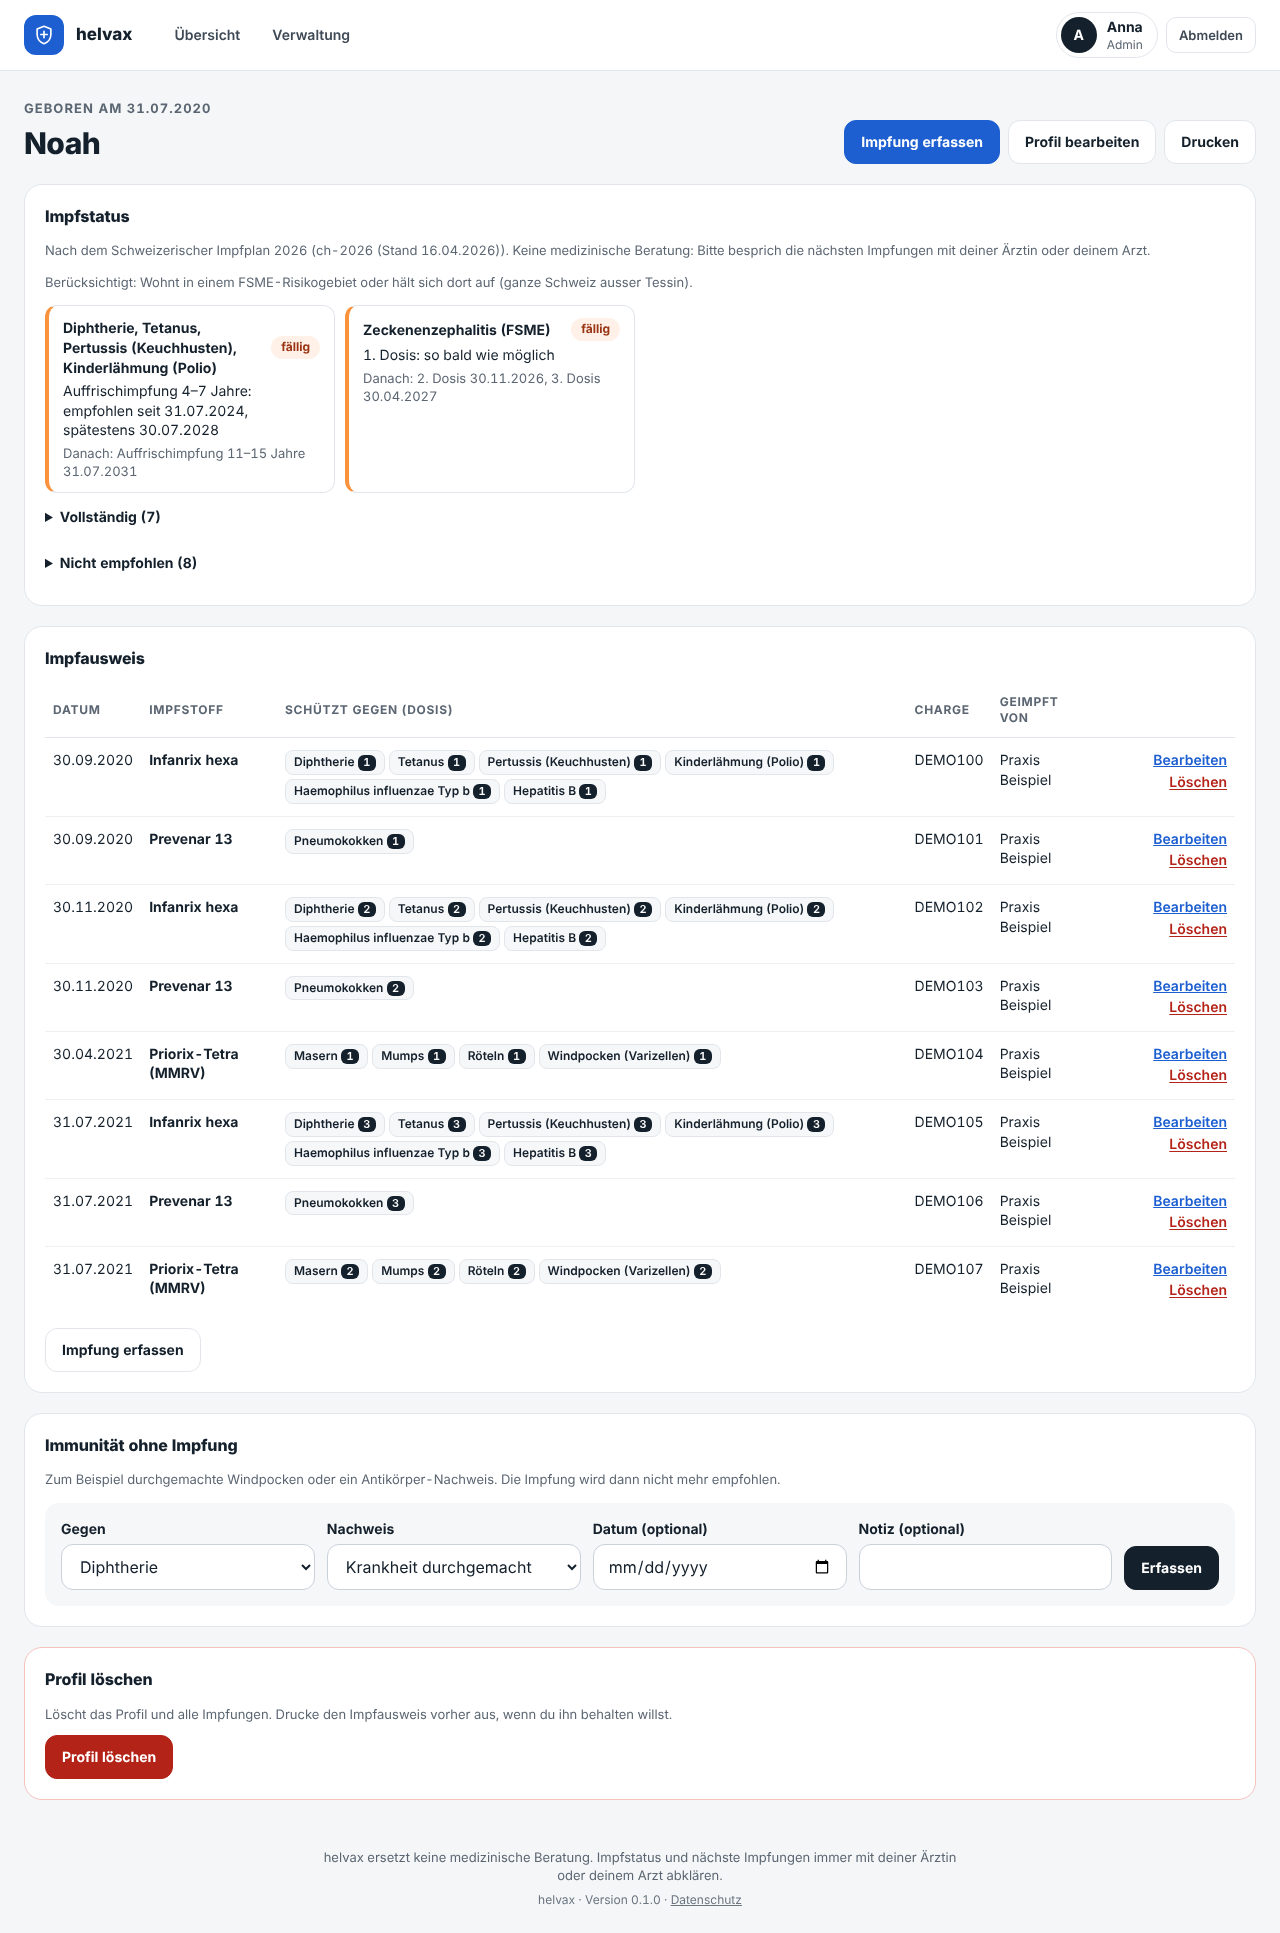
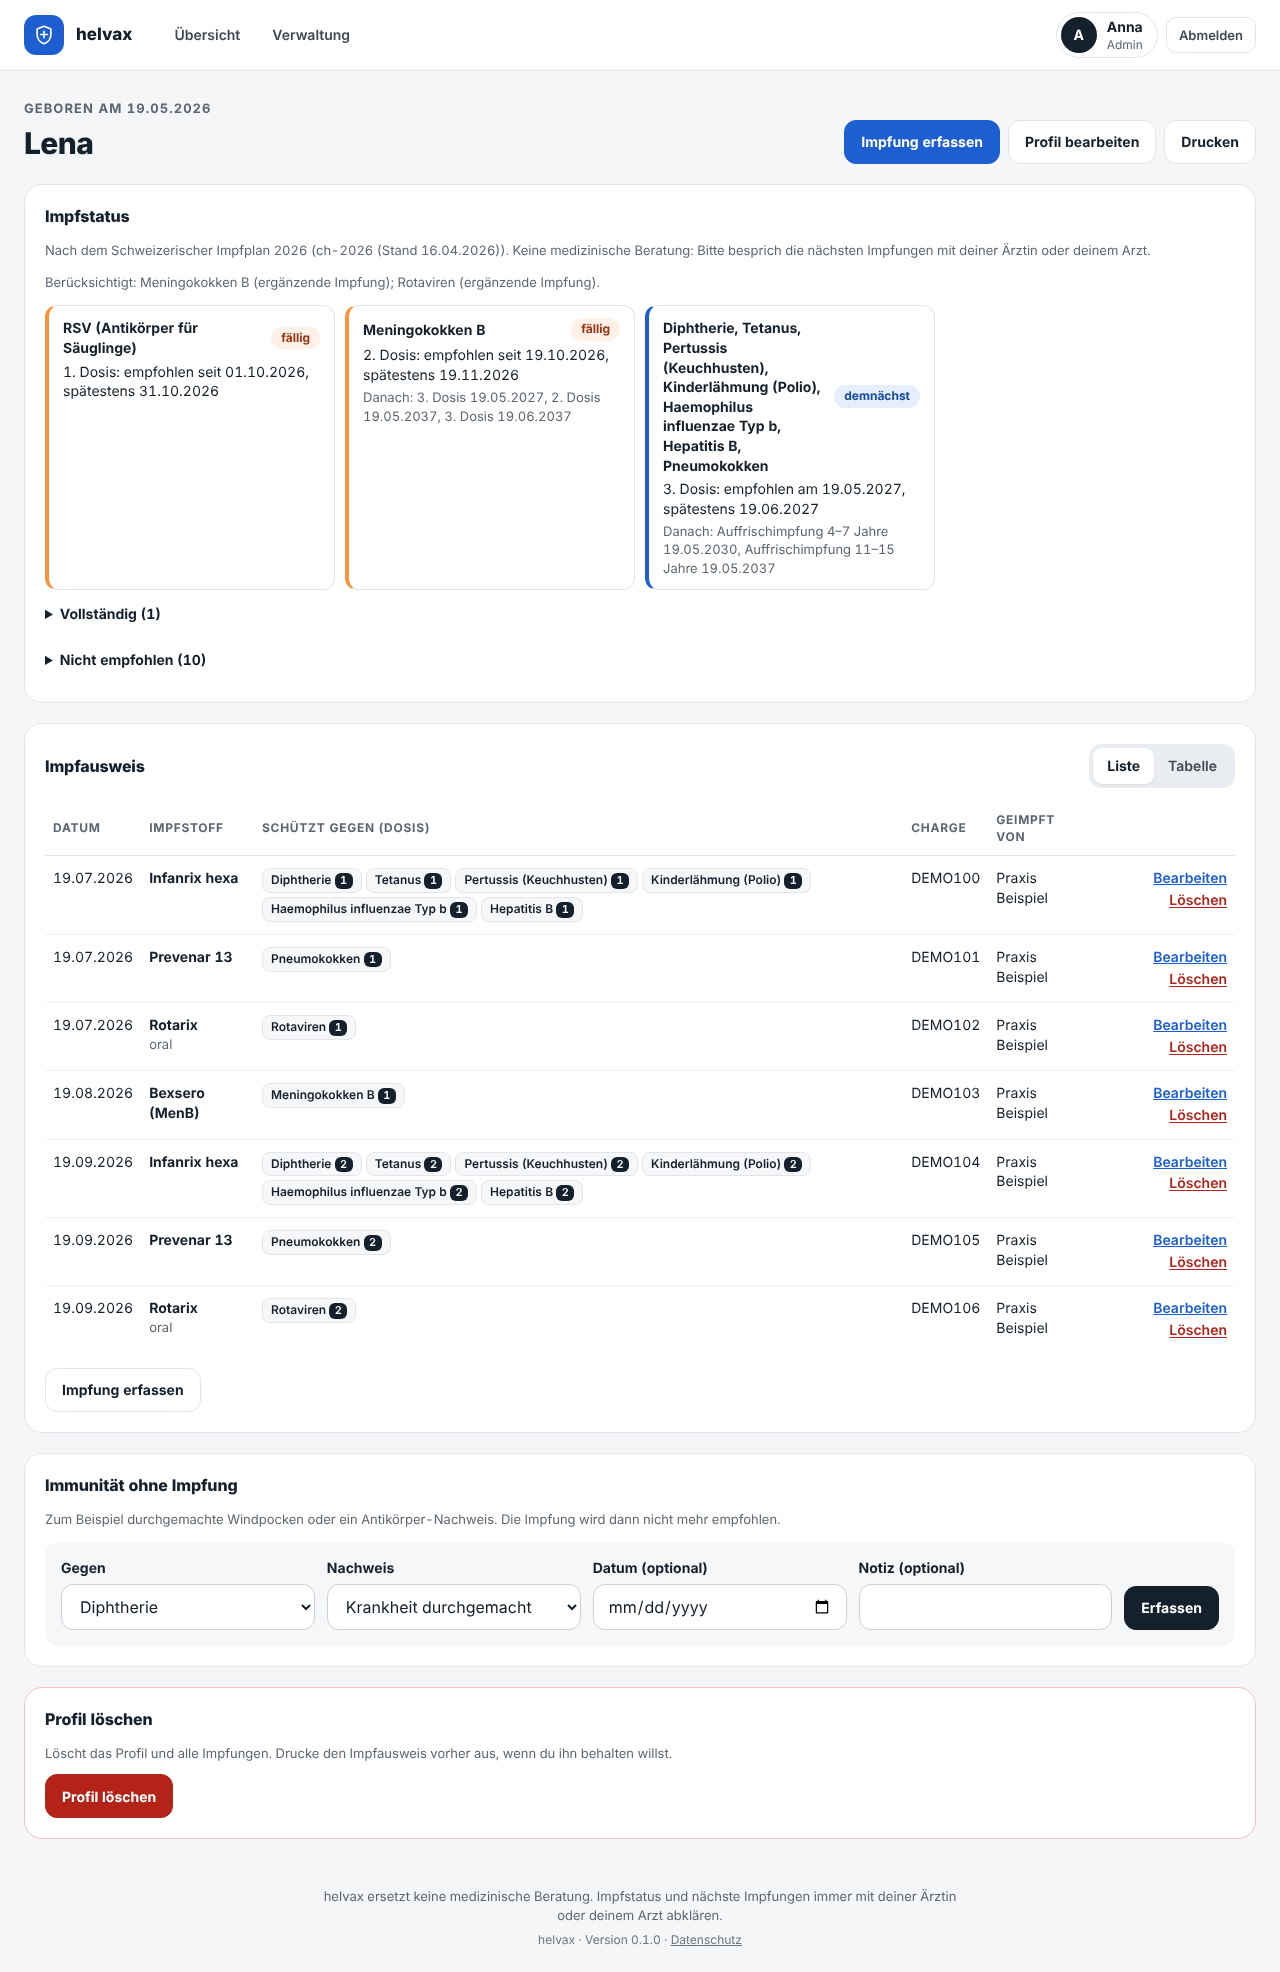
Update the README screenshots, add the table view and the phone
Screenshots retaken from seed-demo data (fictional family). docs/PLAN.md:
phase 1 is merged, the name in LICENSE stays.

Claude-Session: https://claude.ai/code/session_013RBYrpErgonxZkvNatYhnU

diff --git a/docs/PLAN.md b/docs/PLAN.md
@@ -26,7 +26,7 @@ Defaults chosen without asking:
 - Other families' profiles answer **404**, not 403.
 - Extra dependency: PyYAML.
 - Docker host port `127.0.0.1:5050` (5000 may be taken by laundry-booking on the same host).
-- Work happens on branch `claude/phase-1`; PRs only when the owner asks.
+- Work happens on a branch per phase (`claude/phase-1` is merged); PRs only when the owner asks.
 
 ## Milestones
 
@@ -39,21 +39,22 @@ Defaults chosen without asking:
 | M4 | Profile page (status + record table), dashboard, print view, `/schedule`, disclaimer, `seed-demo`, icons, screenshots | done |
 | M5 | Docker smoke test and compose checked, README, CLAUDE.md, DEVELOPMENT.md, encrypted backups (`age`) | done |
 | M4b | Record as a booklet-style table (`?ansicht=tabelle`), on screen and in print (owner request) | done |
+| — | Phase 1 merged into `main` (PR #1, CI green) | done |
 | — | **Owner review of phase 1** (rules in `OPEN_QUESTIONS.md`, catalogue, UI) | **open** |
 | M6 | Notifications by mail (see below) | open |
 | M7 | Web Push (VAPID) | open |
 | M8 | iCal feed per account | open |
 | — | Phase 3 (photos of the booklet, import): designed in `docs/DEVELOPMENT.md`, not built | later |
 
-Phase 1 acceptance criteria (`docs/KICKOFF.md`): all met locally. CI on GitHub has not run yet (it runs on
-pull requests and pushes to `main`).
+Phase 1 acceptance criteria (`docs/KICKOFF.md`): all met; CI (ruff, pytest, pip-audit, shellcheck, Docker
+build and smoke test) green on PR #1.
 
 ## Open points from the phase 1 review
 
 - Medical review of `OPEN_QUESTIONS.md`, in particular the app convention for "overdue" (1 month after the
   recommended date, boosters 1 year) and `skip_from: 16y` for childhood boosters.
 - Check the product catalogue `helvax/catalogue/products-ch.yaml` (not from the BAG document).
-- `LICENSE` carries the copyright holder's name (copied from the reference); decide before going public.
+- ~~`LICENSE` carries the copyright holder's name~~: decided, the name stays.
 
 ## Phase 2 design (M6–M8)
 

diff --git a/README.md b/README.md
@@ -19,6 +19,10 @@ All screenshots show the fictional demo family of `flask seed-demo`.
 |---|---|
 | ![Dashboard](docs/screenshots/dashboard.png) | ![Profile](docs/screenshots/profile.png) |
 
+| The record as a table, like the paper booklet | On the phone |
+|---|---|
+| ![Record as a table](docs/screenshots/table.png) | <img src="docs/screenshots/phone.png" alt="Dashboard on the phone" width="260"> |
+
 ## Features
 
 - **Families and profiles.** An admin creates accounts and families. All accounts of a family see and edit
